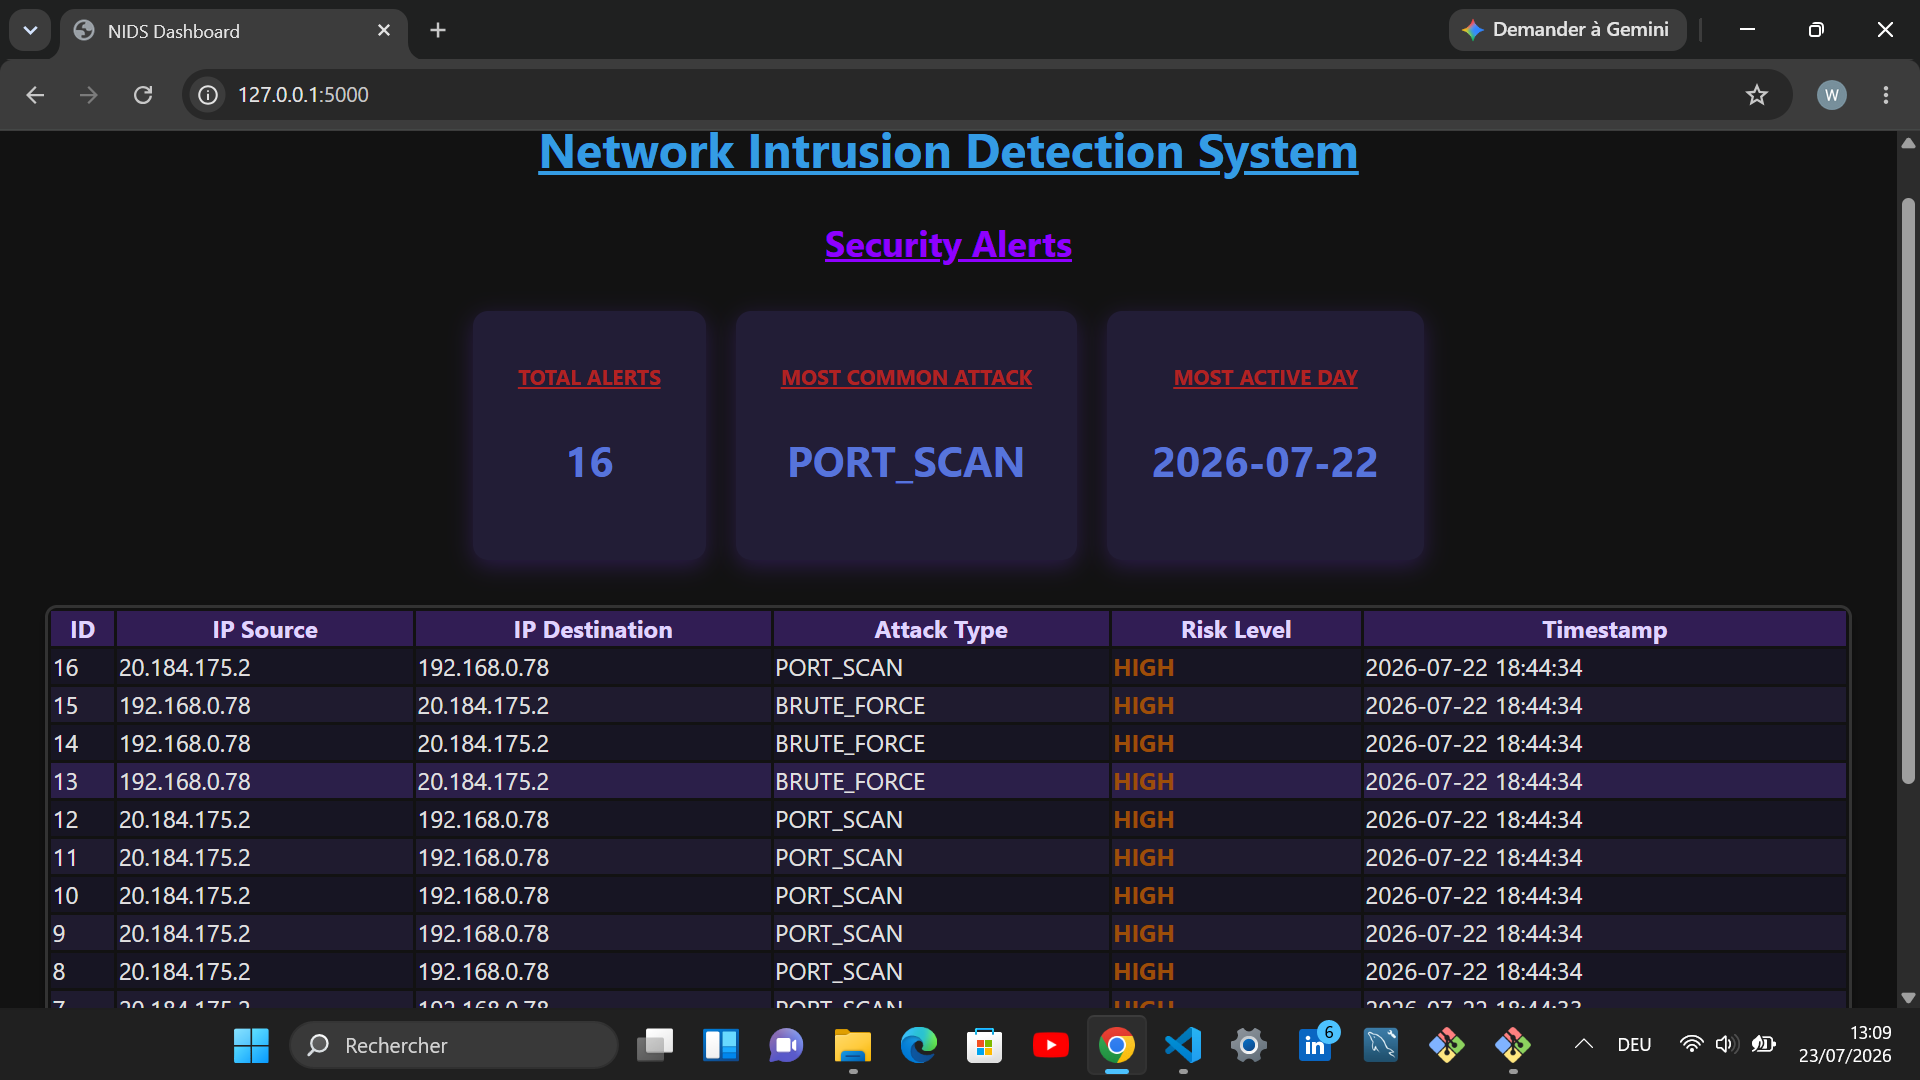
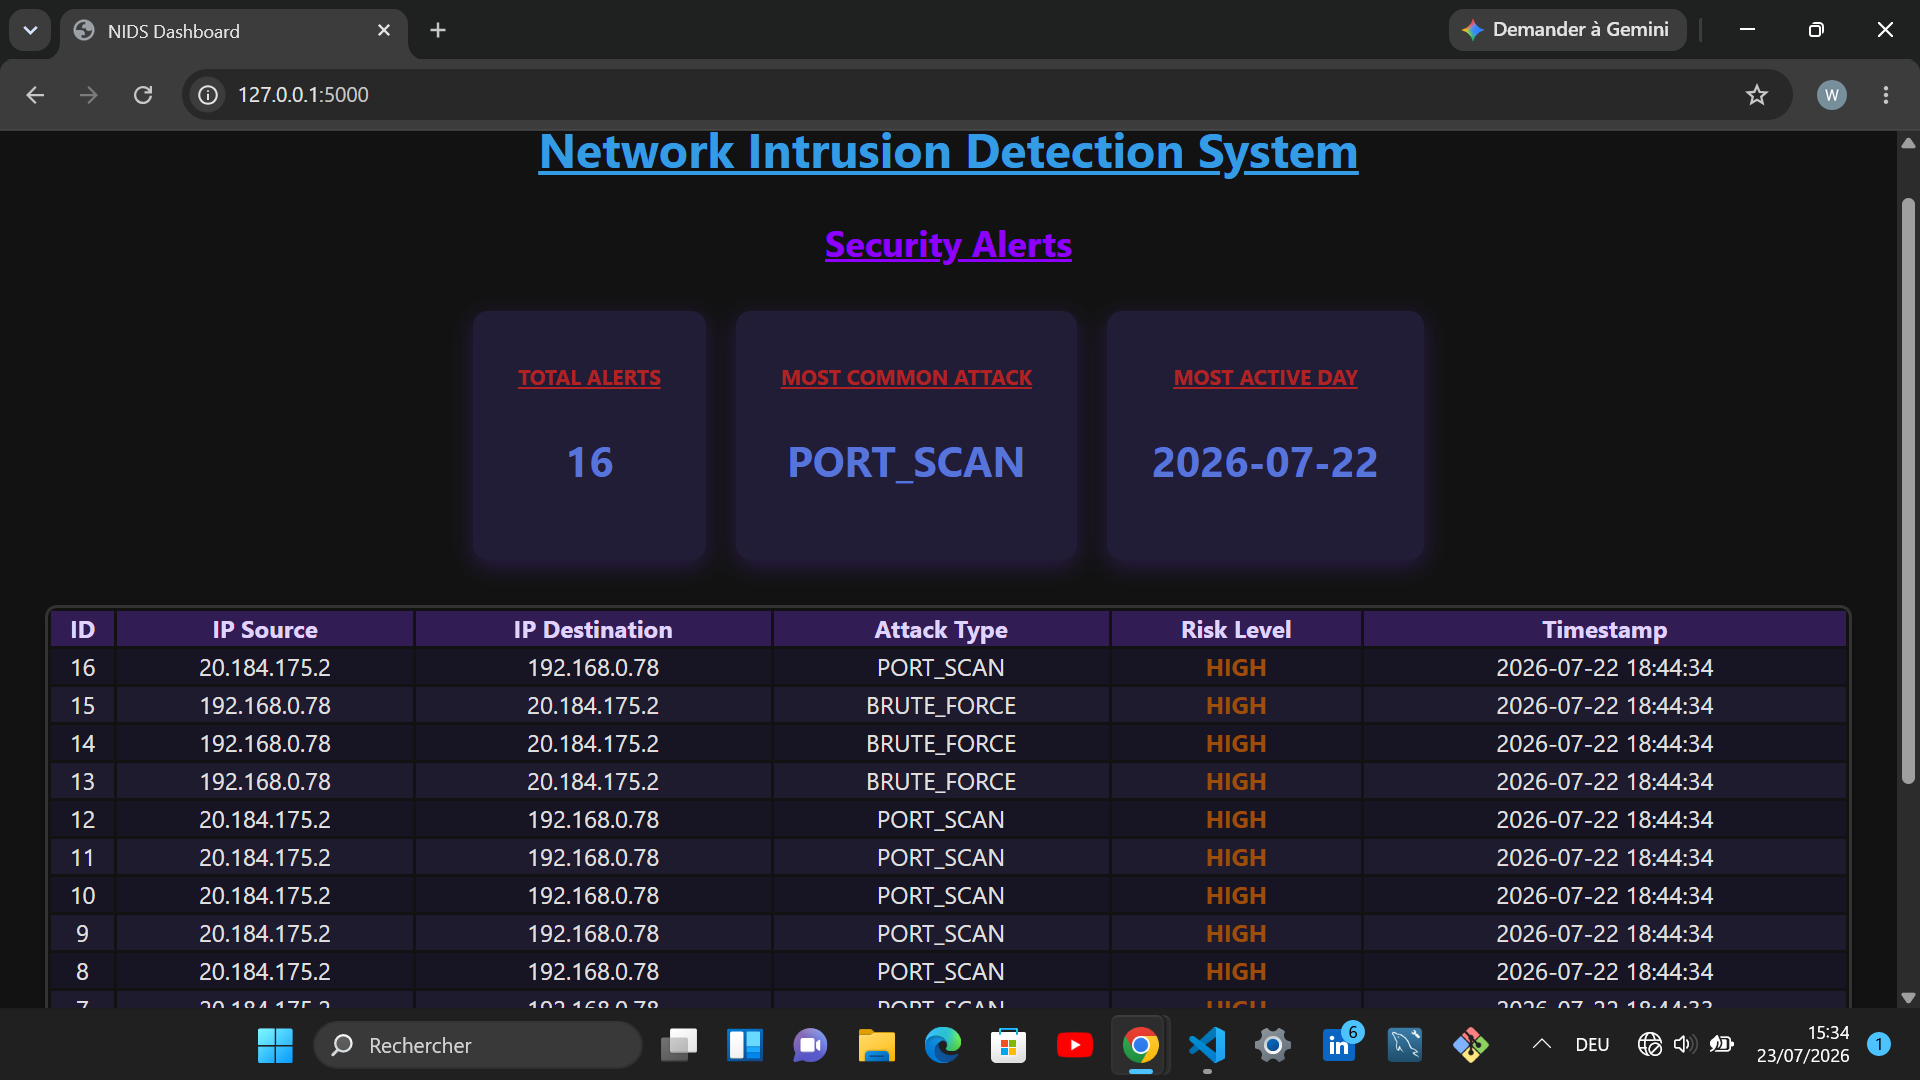
Update css styling and README screenshot

Changed region(s): [[0.0, 0.6111, 1.0, 1.0]]

diff --git a/web_dashboard/static/css/style.css b/web_dashboard/static/css/style.css
@@ -44,6 +44,7 @@ table{
 }
 th,td{
     padding: 12px,15px;
+    text-align: center;
 }
 tbody tr:nth-child(even){
     background-color: rgba(50,40,90,0.4);

diff --git a/README.md b/README.md
@@ -22,7 +22,7 @@ A personal project to detect suspicious network activity (port scanning, ARP spo
 ## 📸 Preview
 
 
-![NIDS Dashboard](screenshots/dashboard.png)
+![NIDS Dashboard](screenshotS/dashboard.png)
 
 
 ## 📂 Project Structure